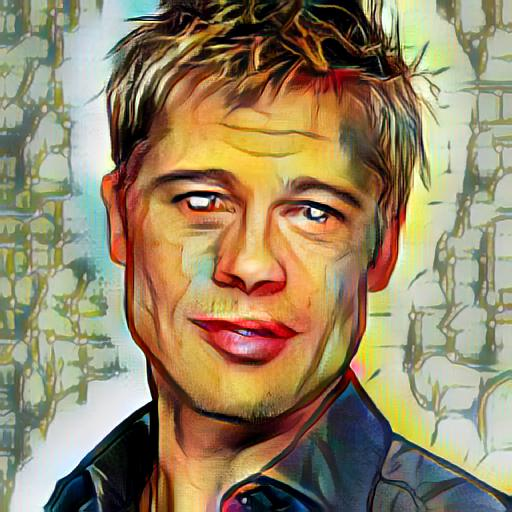
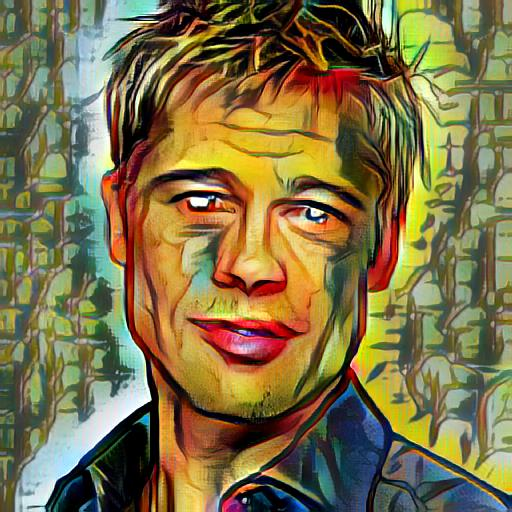
Update NST app and project configuration

diff --git a/NST_Code/app.py b/NST_Code/app.py
@@ -50,27 +50,28 @@ def allowed_file(filename):
     return '.' in filename and \
            filename.rsplit('.', 1)[1].lower() in app.config['ALLOWED_EXTENSIONS']
 
-def style_transfer(content_image, style_image, encoder, decoder, alpha, device):
-    content_transform = transforms.Compose([
-        transforms.Resize(512),
-        transforms.ToTensor()
-    ])
 
-    style_transform = transforms.Compose([
-        transforms.Resize(512),
-        transforms.ToTensor()
-    ])
+def style_transfer(content_image, style_image, encoder, decoder, alpha, device):
+    # Limit the maximum image dimensions to reduce RAM usage
+    content_image.thumbnail((512, 512), Image.Resampling.LANCZOS)
+    style_image.thumbnail((512, 512), Image.Resampling.LANCZOS)
+
+    content_transform = transforms.ToTensor()
+    style_transform = transforms.ToTensor()
+
     content_image = content_transform(content_image).unsqueeze(0).to(device)
     style_image = style_transform(style_image).unsqueeze(0).to(device)
 
-    with torch.no_grad():
+    with torch.inference_mode():
         content_feats = encoder(content_image, is_test=True)
         style_feats = encoder(style_image, is_test=True)
 
-        stylized_feats = adaptive_instance_normalization(content_feats, style_feats)
-
-        stylized_feats = alpha * stylized_feats + (1 - alpha) * content_feats
-
+        stylized_feats = adaptive_instance_normalization(
+            content_feats, style_feats
+        )
+        stylized_feats = (
+            alpha * stylized_feats + (1 - alpha) * content_feats
+        )
         stylized_image = decoder(stylized_feats)
 
     return stylized_image
